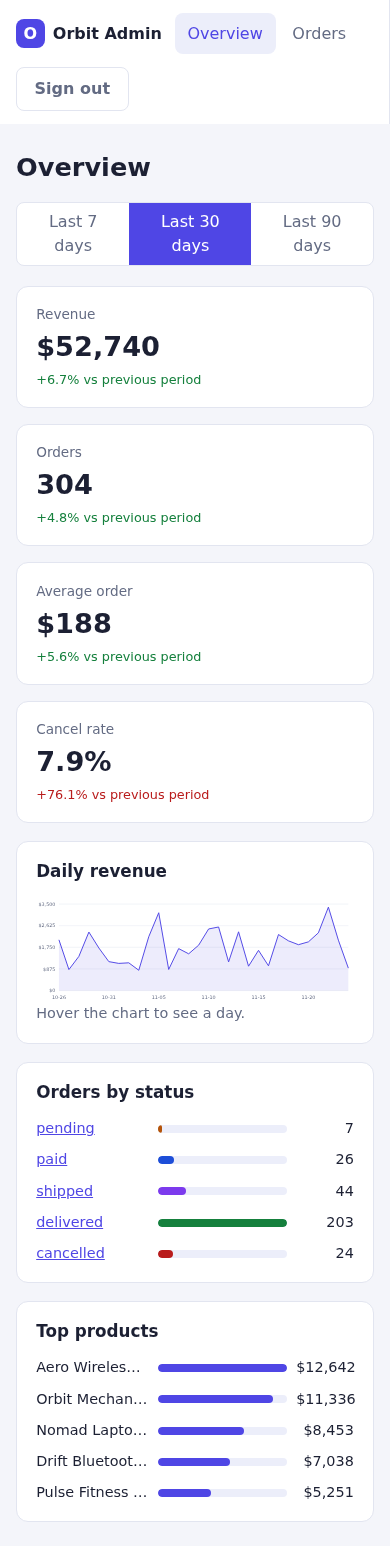
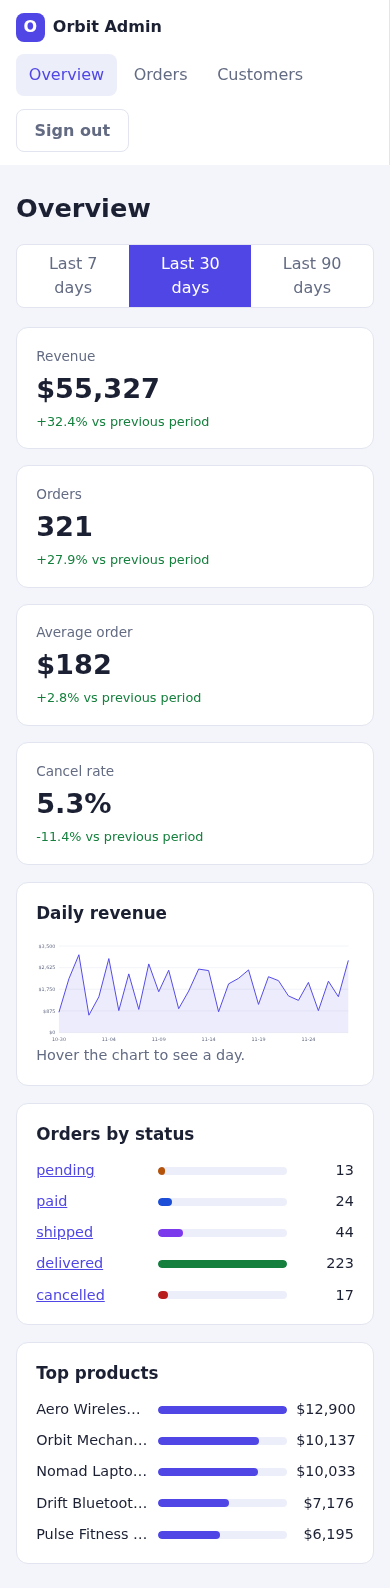
Add a customers page built from the order data
- src/lib/customers.js: group orders by email into customers with order count,
  spend, cancelled count, average order and first/last order dates; search,
  sort and summary helpers.
- src/pages/Customers.jsx: sortable, searchable, paginated table with CSV
  export; clicking a customer opens their orders through the existing
  /orders?q= filter.
- Sidebar link and route.
- Seed data now has 400 customers, so most are one-time buyers and repeat
  buyers mean something (372 customers appear across 978 orders).
- customersToCSV reuses the existing cell escaping.
- 8 new tests (27 total); docs screenshots regenerated for the new data.

diff --git a/src/pages/Customers.jsx b/src/pages/Customers.jsx
@@ -1,0 +1,101 @@
+import { useMemo, useState } from 'react';
+import { useNavigate, useSearchParams } from 'react-router-dom';
+import { useOrders } from '../hooks/useOrders.jsx';
+import { buildCustomers, customerSummary, filterCustomers, sortCustomers } from '../lib/customers.js';
+import { customersToCSV } from '../lib/csv.js';
+import { formatDate, formatMoney } from '../lib/format.js';
+
+const PAGE_SIZE = 15;
+const COLUMNS = [
+  ['name', 'Customer'], ['orders', 'Orders'], ['spent', 'Spent'], ['avgOrder', 'Avg order'], ['lastOrder', 'Last order'],
+];
+
+export default function Customers() {
+  const { orders } = useOrders();
+  const navigate = useNavigate();
+  const [params, setParams] = useSearchParams();
+  const query = params.get('q') ?? '';
+  const [sort, setSort] = useState({ key: 'spent', dir: 'desc' });
+  const [page, setPage] = useState(1);
+
+  const customers = useMemo(() => buildCustomers(orders), [orders]);
+  const summary = useMemo(() => customerSummary(customers), [customers]);
+  const filtered = useMemo(() => sortCustomers(filterCustomers(customers, { query }), sort.key, sort.dir), [customers, query, sort]);
+  const pages = Math.max(1, Math.ceil(filtered.length / PAGE_SIZE));
+  const current = Math.min(page, pages);
+  const rows = filtered.slice((current - 1) * PAGE_SIZE, current * PAGE_SIZE);
+
+  const setQuery = (value) => {
+    const next = new URLSearchParams(params);
+    value ? next.set('q', value) : next.delete('q');
+    setParams(next, { replace: true });
+    setPage(1);
+  };
+
+  const toggleSort = (key) => {
+    setSort((s) => (s.key === key ? { key, dir: s.dir === 'asc' ? 'desc' : 'asc' } : { key, dir: key === 'name' ? 'asc' : 'desc' }));
+    setPage(1);
+  };
+
+  const exportCSV = () => {
+    const blob = new Blob([customersToCSV(filtered)], { type: 'text/csv' });
+    const url = URL.createObjectURL(blob);
+    const a = document.createElement('a');
+    a.href = url; a.download = 'customers.csv'; a.click();
+    URL.revokeObjectURL(url);
+  };
+
+  return (
+    <>
+      <div className="page-head">
+        <h1>Customers</h1>
+        <button className="btn btn-outline" onClick={exportCSV} disabled={!filtered.length}>Export CSV ({filtered.length})</button>
+      </div>
+
+      <p className="muted small">
+        {summary.count} customers · {summary.repeat} repeat buyers · {formatMoney(summary.avgSpend)} average spend.
+        Built from the orders in this demo; a real shop keeps customers in its own table.
+      </p>
+
+      <div className="filters">
+        <input type="search" placeholder="Search name or email" value={query} onChange={(e) => setQuery(e.target.value)} aria-label="Search customers" />
+      </div>
+
+      <div className="card table-wrap">
+        <table>
+          <thead>
+            <tr>
+              {COLUMNS.map(([key, label]) => (
+                <th key={key} aria-sort={sort.key === key ? (sort.dir === 'asc' ? 'ascending' : 'descending') : 'none'}>
+                  <button className="th-btn" onClick={() => toggleSort(key)}>
+                    {label} {sort.key === key ? (sort.dir === 'asc' ? '▲' : '▼') : ''}
+                  </button>
+                </th>
+              ))}
+            </tr>
+          </thead>
+          <tbody>
+            {rows.map((c) => (
+              <tr key={c.email} tabIndex={0} onClick={() => navigate(`/orders?q=${encodeURIComponent(c.email)}`)} onKeyDown={(e) => e.key === 'Enter' && navigate(`/orders?q=${encodeURIComponent(c.email)}`)} title={`Show ${c.name}'s orders`}>
+                <td>{c.name}<br /><span className="muted small">{c.email}</span></td>
+                <td>{c.orders}{c.cancelled > 0 && <span className="muted small"> ({c.cancelled} cancelled)</span>}</td>
+                <td>{formatMoney(c.spent)}</td>
+                <td>{formatMoney(c.avgOrder)}</td>
+                <td>{formatDate(c.lastOrder)}</td>
+              </tr>
+            ))}
+            {!rows.length && <tr><td colSpan="5" className="empty">No customers match this search.</td></tr>}
+          </tbody>
+        </table>
+      </div>
+
+      <div className="pager">
+        <span className="muted">{filtered.length} customers · page {current} of {pages}</span>
+        <div>
+          <button className="btn btn-outline btn-small" disabled={current <= 1} onClick={() => setPage(current - 1)}>Previous</button>{' '}
+          <button className="btn btn-outline btn-small" disabled={current >= pages} onClick={() => setPage(current + 1)}>Next</button>
+        </div>
+      </div>
+    </>
+  );
+}

diff --git a/src/lib/customers.test.js b/src/lib/customers.test.js
@@ -1,0 +1,77 @@
+import test from 'node:test';
+import assert from 'node:assert/strict';
+import { buildCustomers, customerSummary, filterCustomers, sortCustomers } from './customers.js';
+import { customersToCSV } from './csv.js';
+
+const omar = { name: 'Omar Hassan', email: 'omar@example.com' };
+const layla = { name: 'Layla Saad', email: 'layla@example.com' };
+const orders = [
+  { id: '#1', date: '2026-11-01', customer: omar, items: [], total: 100, status: 'delivered' },
+  { id: '#2', date: '2026-11-05', customer: omar, items: [], total: 50, status: 'cancelled' },
+  { id: '#3', date: '2026-11-03', customer: layla, items: [], total: 200, status: 'paid' },
+  { id: '#4', date: '2026-10-20', customer: layla, items: [], total: 80, status: 'shipped' },
+];
+
+test('customers are grouped by email with order counts and spend', () => {
+  const rows = buildCustomers(orders);
+  assert.equal(rows.length, 2);
+  const o = rows.find((c) => c.email === 'omar@example.com');
+  assert.equal(o.name, 'Omar Hassan');
+  assert.equal(o.orders, 2);
+  assert.equal(o.cancelled, 1);
+  assert.equal(o.spent, 100); // the cancelled order is not spend
+  assert.equal(o.avgOrder, 100); // average over the one paid order
+  assert.equal(o.firstOrder, '2026-11-01');
+  assert.equal(o.lastOrder, '2026-11-05');
+});
+
+test('average order ignores cancelled orders and never divides by zero', () => {
+  const rows = buildCustomers([
+    { id: '#9', date: '2026-11-01', customer: { name: 'Zed', email: 'zed@example.com' }, items: [], total: 40, status: 'cancelled' },
+  ]);
+  assert.equal(rows[0].spent, 0);
+  assert.equal(rows[0].avgOrder, 0);
+});
+
+test('buildCustomers does not mutate the orders it is given', () => {
+  const copy = JSON.parse(JSON.stringify(orders));
+  buildCustomers(orders);
+  assert.deepEqual(orders, copy);
+});
+
+test('search matches name and email, case-insensitive and trimmed', () => {
+  const rows = buildCustomers(orders);
+  assert.deepEqual(filterCustomers(rows, { query: 'layla' }).map((c) => c.email), ['layla@example.com']);
+  assert.equal(filterCustomers(rows, { query: 'EXAMPLE.COM' }).length, 2);
+  assert.equal(filterCustomers(rows, { query: '   ' }).length, 2);
+  assert.equal(filterCustomers(rows, { query: 'nobody' }).length, 0);
+});
+
+test('sorting by spend, name and last order', () => {
+  const rows = buildCustomers(orders);
+  assert.deepEqual(sortCustomers(rows, 'spent', 'desc').map((c) => c.email), ['layla@example.com', 'omar@example.com']);
+  assert.deepEqual(sortCustomers(rows, 'spent', 'asc').map((c) => c.email), ['omar@example.com', 'layla@example.com']);
+  assert.deepEqual(sortCustomers(rows, 'name', 'asc').map((c) => c.name), ['Layla Saad', 'Omar Hassan']);
+  assert.deepEqual(sortCustomers(rows, 'lastOrder', 'desc').map((c) => c.email), ['omar@example.com', 'layla@example.com']);
+});
+
+test('equal sort keys fall back to email so the order is stable', () => {
+  const rows = [
+    { name: 'B', email: 'b@example.com', orders: 1, spent: 10 },
+    { name: 'A', email: 'a@example.com', orders: 1, spent: 10 },
+  ];
+  assert.deepEqual(sortCustomers(rows, 'spent', 'desc').map((c) => c.email), ['a@example.com', 'b@example.com']);
+});
+
+test('summary counts repeat buyers and average spend', () => {
+  assert.deepEqual(customerSummary(buildCustomers(orders)), { count: 2, repeat: 2, avgSpend: 190 });
+  assert.deepEqual(customerSummary([]), { count: 0, repeat: 0, avgSpend: 0 });
+});
+
+test('customer CSV has a header, one line per customer, and no cancelled spend', () => {
+  const lines = customersToCSV(buildCustomers(orders)).split('\n');
+  assert.equal(lines.length, 3);
+  assert.equal(lines[0].split(',')[0], 'Customer');
+  const omarLine = lines.find((l) => l.includes('omar@example.com'));
+  assert.ok(omarLine.includes(',2,1,100.00,100.00,2026-11-01,2026-11-05'));
+});

diff --git a/src/lib/customers.js b/src/lib/customers.js
@@ -1,0 +1,48 @@
+import { countsAsRevenue } from './stats.js';
+
+// Customers are derived from the order list: this demo has no separate customer table.
+// Cancelled orders count towards how many orders a customer placed, but not towards spend.
+export function buildCustomers(orders) {
+  const map = new Map();
+  for (const o of orders) {
+    const email = o.customer.email;
+    const row = map.get(email) ?? { name: o.customer.name, email, orders: 0, spent: 0, cancelled: 0, firstOrder: o.date, lastOrder: o.date };
+    row.orders += 1;
+    if (countsAsRevenue(o)) row.spent += o.total;
+    else row.cancelled += 1;
+    if (o.date < row.firstOrder) row.firstOrder = o.date;
+    if (o.date > row.lastOrder) row.lastOrder = o.date;
+    map.set(email, row);
+  }
+  return [...map.values()].map((c) => {
+    const paid = c.orders - c.cancelled;
+    return { ...c, avgOrder: paid ? c.spent / paid : 0 };
+  });
+}
+
+export function filterCustomers(customers, { query = '' } = {}) {
+  const q = query.trim().toLowerCase();
+  if (!q) return customers;
+  return customers.filter((c) => c.name.toLowerCase().includes(q) || c.email.toLowerCase().includes(q));
+}
+
+const compare = {
+  name: (a, b) => a.name.localeCompare(b.name),
+  orders: (a, b) => a.orders - b.orders,
+  spent: (a, b) => a.spent - b.spent,
+  avgOrder: (a, b) => a.avgOrder - b.avgOrder,
+  lastOrder: (a, b) => a.lastOrder.localeCompare(b.lastOrder),
+};
+
+export function sortCustomers(customers, key = 'spent', dir = 'desc') {
+  const cmp = compare[key] ?? compare.spent;
+  const sign = dir === 'asc' ? 1 : -1;
+  return [...customers].sort((a, b) => sign * cmp(a, b) || a.email.localeCompare(b.email));
+}
+
+export function customerSummary(customers) {
+  const count = customers.length;
+  const repeat = customers.filter((c) => c.orders > 1).length;
+  const spent = customers.reduce((s, c) => s + c.spent, 0);
+  return { count, repeat, avgSpend: count ? spent / count : 0 };
+}

diff --git a/src/data/seed.js b/src/data/seed.js
@@ -12,7 +12,7 @@ const PRODUCTS = [
 ];
 
 const FIRST = ['Omar', 'Layla', 'Youssef', 'Mona', 'Karim', 'Nour', 'Hassan', 'Salma', 'Tarek', 'Dina', 'Ali', 'Rania', 'Ziad', 'Hana', 'Mostafa', 'Farida'];
-const LAST = ['Hassan', 'Ibrahim', 'Mansour', 'Saad', 'Fahmy', 'Nabil', 'Adel', 'Samir', 'Khalil', 'Farouk'];
+const LAST = ['Hassan', 'Ibrahim', 'Mansour', 'Saad', 'Fahmy', 'Nabil', 'Adel', 'Samir', 'Khalil', 'Farouk', 'Zaki', 'Rashad', 'Fouad', 'Gaber', 'Helal', 'Kamal', 'Lotfy', 'Maged', 'Naguib', 'Osman', 'Ragab', 'Sabry', 'Tawfik', 'Wahba'];
 
 // Small seeded random generator so the demo data is the same on every load.
 function mulberry32(seed) {
@@ -36,7 +36,7 @@ function pickStatus(rand, ageDays) {
 
 export function generateOrders(todayISO, days = 120, seed = 7) {
   const rand = mulberry32(seed);
-  const customers = Array.from({ length: 40 }, (_, i) => {
+  const customers = Array.from({ length: 400 }, (_, i) => {
     const first = FIRST[Math.floor(rand() * FIRST.length)];
     const last = LAST[Math.floor(rand() * LAST.length)];
     return { name: `${first} ${last}`, email: `${first}.${last}${i}@example.com`.toLowerCase() };

diff --git a/src/App.jsx b/src/App.jsx
@@ -5,6 +5,7 @@ import Layout from './components/Layout.jsx';
 import Login from './pages/Login.jsx';
 import Overview from './pages/Overview.jsx';
 import Orders from './pages/Orders.jsx';
+import Customers from './pages/Customers.jsx';
 
 function Protected({ children }) {
   const { signedIn } = useAuth();
@@ -20,6 +21,7 @@ export default function App() {
           <Route element={<Protected><Layout /></Protected>}>
             <Route index element={<Overview />} />
             <Route path="orders" element={<Orders />} />
+            <Route path="customers" element={<Customers />} />
           </Route>
           <Route path="*" element={<Navigate to="/" replace />} />
         </Routes>

diff --git a/src/lib/csv.js b/src/lib/csv.js
@@ -5,6 +5,16 @@ function cell(value) {
   return /[",\n]/.test(s) ? `"${s.replace(/"/g, '""')}"` : s;
 }
 
+export function customersToCSV(customers) {
+  const header = ['Customer', 'Email', 'Orders', 'Cancelled', 'Spent (USD)', 'Average order (USD)', 'First order', 'Last order'];
+  const lines = customers.map((c) =>
+    [c.name, c.email, c.orders, c.cancelled, c.spent.toFixed(2), c.avgOrder.toFixed(2), c.firstOrder, c.lastOrder]
+      .map(cell)
+      .join(',')
+  );
+  return [header.join(','), ...lines].join('\n');
+}
+
 export function ordersToCSV(orders) {
   const header = ['Order', 'Date', 'Customer', 'Email', 'Items', 'Total (USD)', 'Status'];
   const lines = orders.map((o) =>

diff --git a/src/components/Layout.jsx b/src/components/Layout.jsx
@@ -11,6 +11,7 @@ export default function Layout() {
         <nav>
           <NavLink to="/" end>Overview</NavLink>
           <NavLink to="/orders">Orders</NavLink>
+          <NavLink to="/customers">Customers</NavLink>
         </nav>
         <button className="btn btn-ghost" onClick={() => { logout(); navigate('/login'); }}>Sign out</button>
       </aside>

diff --git a/README.md b/README.md
@@ -6,11 +6,13 @@ An admin dashboard for a small online shop. The owner sees revenue and order tre
 
 ![Overview](docs/overview.png)
 ![Orders](docs/orders.png)
+![Customers](docs/customers.png)
 
 ## What it does
 
 - **Overview:** revenue, orders, average order value and cancel rate for the last 7, 30 or 90 days, each compared with the previous period of the same length. Daily revenue chart with hover readout, orders by status, top products.
 - **Orders:** search by order number, name or email; filter by status; sort any column; pagination; export the filtered list as CSV.
+- **Customers:** every customer in the order data, with how many orders they placed, what they spent, their average order and their last order. Search, sort any column, paginate, export as CSV. Clicking a customer opens their orders.
 - **Order detail:** items, totals and customer. Move an order forward (paid, shipped, delivered) or cancel it, with a confirmation for cancelling.
 - **Sign-in screen** with protected routes.
 - **Phone friendly:** layout, tables and cards adapt to small screens.
@@ -18,7 +20,8 @@ An admin dashboard for a small online shop. The owner sees revenue and order tre
 ## How it works
 
 - **React + Vite + React Router.** Filters live in the URL (`/orders?status=paid&q=omar`), so a filtered view survives refresh and can be shared. The status bars on the overview link to filtered views.
-- **All logic is outside the components** (`src/lib`) and covered by tests: filtering, sorting, pagination, status rules, revenue stats, CSV export.
+- **All logic is outside the components** (`src/lib`) and covered by tests: filtering, sorting, pagination, status rules, revenue stats, customer totals, CSV export.
+- **Customers are built from the orders** (`src/lib/customers.js`): the demo has no separate customer table, so one function groups orders by email and totals spend, orders and dates. Cancelled orders count as orders placed but not as spend, the same rule the overview uses.
 - **Cancelled orders never count as revenue**, customers or average order value. One function (`countsAsRevenue`) decides this, so the numbers cannot disagree.
 - **Status changes follow rules.** Orders only move forward, and can be cancelled only before they ship. Invalid moves are ignored in the logic, not only hidden in the UI.
 - **Period comparison** returns `n/a` instead of infinity when the previous period has no data.
@@ -28,17 +31,18 @@ An admin dashboard for a small online shop. The owner sees revenue and order tre
 
 ## Tradeoffs and what I would do next
 
-- **The data is fake.** About 1,000 orders are generated in the browser from a fixed random seed, so the demo looks the same each time. Status changes are saved in localStorage only. A real version needs an API and a database.
+- **The data is fake.** About 1,000 orders from about 370 customers are generated in the browser from a fixed random seed, so the demo looks the same each time. Status changes are saved in localStorage only. A real version needs an API and a database.
 - **The login is a demo.** It compares against a hard-coded password in the browser and protects nothing. A real version verifies credentials on a server and uses a session cookie or token, with server-side checks on every request.
+- **Customers are read-only.** They are derived from orders, so there is no way to edit a customer or keep a note on one. A real shop has a customers table and this page would read it.
 - **No tests for the React components yet.** The logic is tested; UI is checked by hand and with screenshots.
-- **Next:** customers page, product stock, date-range picker, and a real backend.
+- **Next:** product stock, a date-range picker for the overview, and a real backend.
 
 ## Run it locally
 
 ```bash
 npm install
 npm run dev      # http://localhost:5173
-npm test         # 19 tests on the logic in src/lib
+npm test         # 27 tests on the logic in src/lib
 npm run build
 ```
 
@@ -46,9 +50,9 @@ npm run build
 
 ```
 src/
-  pages/        Login, Overview, Orders
+  pages/        Login, Overview, Orders, Customers
   components/   Layout, KpiCard, LineChart, StatusBadge, OrderDrawer
   hooks/        useAuth, useOrders (state + localStorage)
-  lib/          orders, stats, csv, dates, format, auth (+ tests)
+  lib/          orders, customers, stats, csv, dates, format, auth (+ tests)
   data/         seeded demo data generator
 ```
